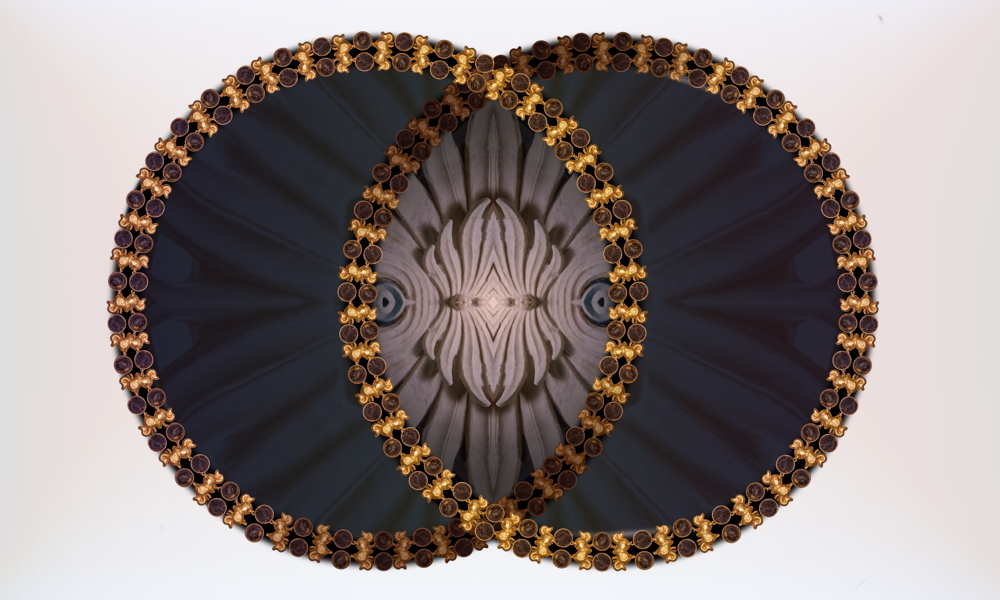
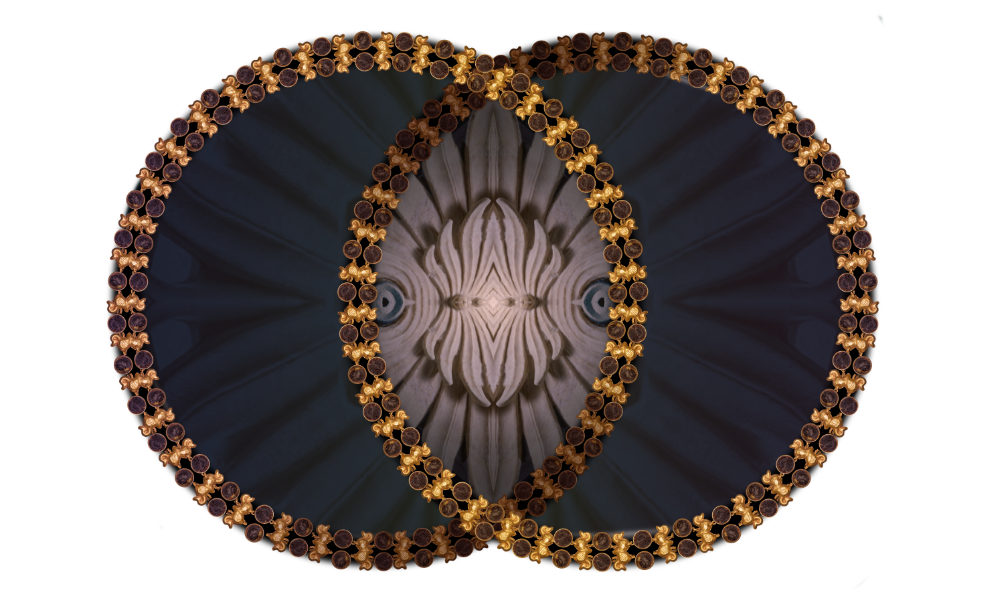
add readings with audio, but leave masshysteria as draft

Changed region(s): [[0.806, 0.0, 1.0, 1.0], [0.0, 0.0, 0.186, 1.0]]

diff --git a/content/posts/009.masks_podcast.md b/content/posts/009.masks_podcast.md
@@ -1,0 +1,13 @@
+---
+title: "Reading: Fetish of the Wretched"
+summary: The Mask As Multivalent Signifier of Brutality
+slug: fetish-of-the-wretched-reading
+draft: false
+date: 2022-04-06T02:59:37.129Z
+place: On the road in Bumfuck, Nowhere
+thumbnail: thumbnails/0157.masks_podcast_thumbnail.png
+images: [covers/0157.masks_podcast.jpg]
+tags: [covid, sociology, psychoanalysis, morality, podcast]
+---
+
+{{< audio mp3="/audio/154_reading_masks.mp3" >}}

diff --git a/content/posts/012.disillusioned_podcast.md b/content/posts/012.disillusioned_podcast.md
@@ -1,0 +1,12 @@
+---
+title: "Reading: For the Newly Disillusioned"
+description: A love letter to r/lockdownskepticism
+slug: newly-disillusioned-podcast
+draft: false
+date: 2022-05-07T13:03:33.984Z
+thumbnail: thumbnails/0168.disillusionment_podcast_thumbnail.png
+images: [covers/0168.disillusionment_podcast.jpg]
+tags: [covid, exclusion, freedom, podcast]
+---
+
+{{< audio mp3="/audio/158_reading_disillusioned.mp3" >}}

diff --git a/content/posts/001.masshysteria_podcast.md b/content/posts/001.masshysteria_podcast.md
@@ -1,0 +1,12 @@
+---
+title: "Reading: They're Not Afraid of COVID"
+summary: Mass Hysteria and Repressed Aggression
+slug: masshysteria-reading
+draft: true
+date: 2022-04-01T02:00:00.000Z
+thumbnail: thumbnails/0156.hysteria_podcast_thumbnail.png
+images: [covers/0156.hysteria_podcast.jpg]
+tags: [covid, sociology, psychoanalysis, podcast]
+---
+
+{{< audio mp3="/audio/155_reading_hysteria.mp3" >}}

diff --git a/content/posts/013.nudge_podcast.md b/content/posts/013.nudge_podcast.md
@@ -1,0 +1,12 @@
+---
+title:  "Reading: We Did It, Not Nudge"
+summary: Gullibility is Only Another Disguise
+slug: nudge-podcast
+draft: false
+date: 2022-04-23T14:37:56.724Z
+thumbnail: thumbnails/0164.nudge_podcast_thumbnail.png
+images: [covers/0164.nudge_podcast.jpg]
+tags: [covid, sociology, psychoanalysis, podcast]
+---
+
+{{< audio mp3="/audio/156_reading_nudge.mp3" >}}

diff --git a/content/posts/013.nudge.md b/content/posts/013.nudge.md
@@ -3,7 +3,7 @@ title:  We Did It, Not "Nudge"
 summary: Gullibility is Only Another Disguise
 slug: nudge
 draft: false
-date: 2022-04-06T02:58:00.000Z
+date: 2022-04-23T14:35:56.724Z
 thumbnail: thumbnails/0164.nudge.png
 images: ['covers/0164.nudge.png']
 tags: ['covid', 'sociology', 'psychoanalysis']
